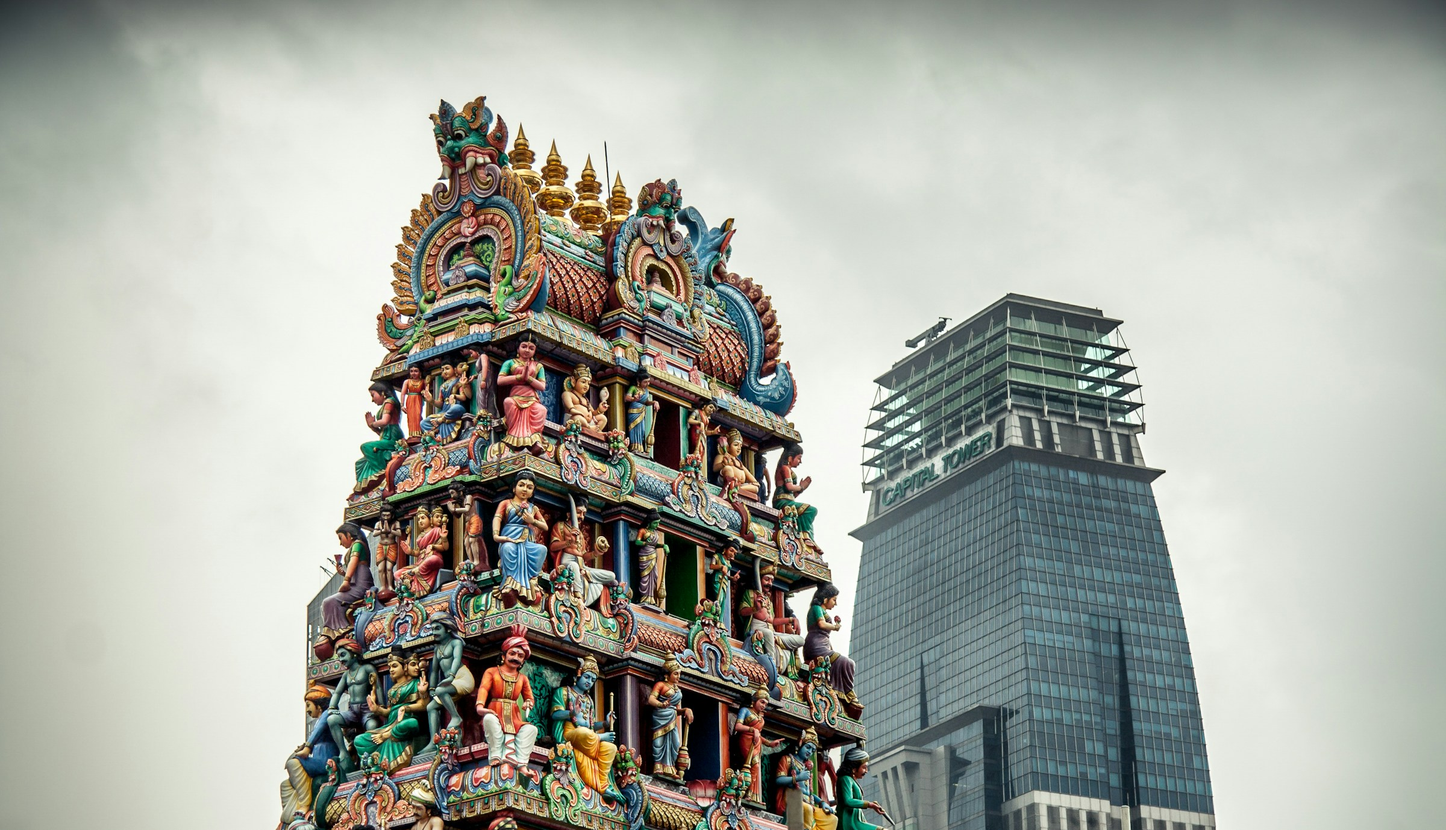
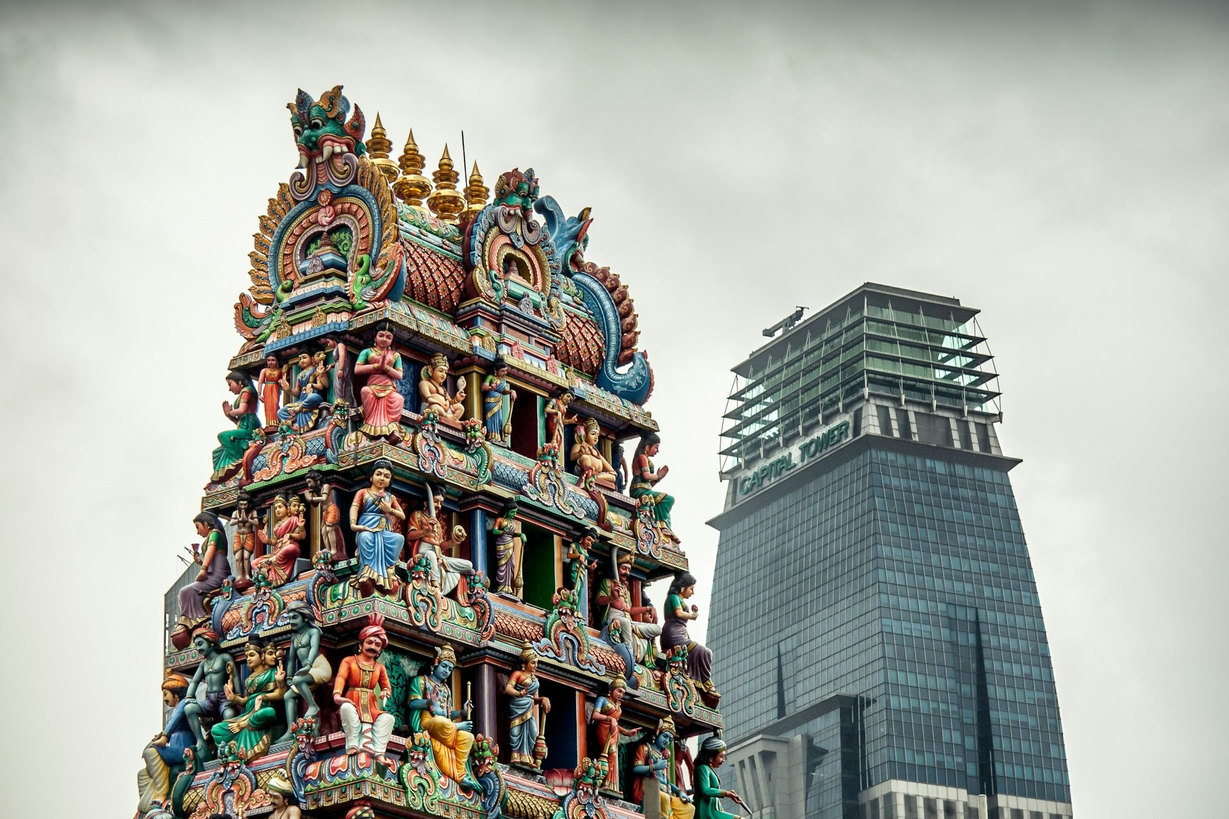
completed

diff --git a/index.html b/index.html
@@ -1,16 +1,309 @@
 <!DOCTYPE html>
 <html>
-<head>
-    <meta charset="UTF-8">
-    <meta name="viewport" content="width=device-width, initial-scale=1.0">
-    <title>HTML Lab</title>
-    <style>
-      /* Part 2 CSS should all be within this tag. */
-    </style>
-</head>
-<body>
+    <head>
+        <meta charset="UTF-8">
+        <meta name="viewport" content="width=device-width, initial-scale=1.0">
+        <title>Image Gallery "Eras of Capitalism"</title>
+        <style>
+            body {
+                background-color: #e8e8e8cd;
+                font-family: system-ui, Helvetica, Arial, sans-serif;
+                color: #333333;
+            }
+            h1 {
+                color: #333333;
+                font-size: 32px;
+                text-align: center;
+            }
 
-<!-- Part 1 Content should all be within the body -->
+            .page-layout {
+                display: grid;
+                grid-template-columns: 180px minmax(0, 1fr);
+                gap: 20px;
+            }
+            nav {
+                position: sticky;
+                top: 20px;
+                align-self: start;
+                border-right: 1px solid #aaaaaa;
+                padding-right: 10px;
+            }
+            nav ul {
+                list-style-type: none;
+                padding-left: 20px;
+            }
+            nav li {
+                margin-bottom: 12px;
+            }
+            nav li a {
+                color: #333333;
+                text-decoration: none;
+                font-size: 15px;
+            }
+            main {
+                min-width: 0;
+            }
+            h2:not(:first-of-type) {
+                border-top: 2px solid #aaaaaa;
+                padding-top: 20px;
+            }
+            .gallery {
+                display: grid;
+                grid-template-columns: repeat(3, minmax(0, 1fr));
+                gap: 20px;
+                margin: 20px auto;
+                max-width: 900px;
+            }
+            .gallery-item {
+                background-color: #fdfdfdcd;
+                padding: 20px;
+                margin: 20px auto;
+                max-width: 400px;
+                text-align: center;
+                border-radius: 10px;
+            }
+            .gallery-item img {
+                width: 100%;
+                height: auto;
+                display: block;
+                margin: 0 auto 15px;
+            }
+            .gallery-item a {
+                font-size: 16px;
+                color: #333333;
+                font-weight: bold;
+            }
+            .caption {
+                width: 80%;
+                font-size: 14px;
+                color: #333333;
+                line-height: 1.2;
+                text-align: center;
+                margin: 8px auto 0;            }
+        </style>
+    </head>
 
-</body>
+    <body>
+
+        <header>
+            <h1>Image Gallery "Eras of Capitalism"</h1>
+        </header>
+
+        <div class="page-layout">
+
+            <nav class="crumbs">
+                <ul>
+                    <li class="crumb"><a href="#early">Early Era</a></li>
+                    <li class="crumb"><a href="#late">Current Era</a></li>
+                    <li class="crumb"><a href="#coming">Coming Era</a></li>
+                </ul>
+            </nav>
+
+            <main>
+
+                <h2 id="early">Early Era</h2>
+
+                <div class="gallery">
+                    <div class="gallery-item">
+
+                        <img src="images/img1_1.jpg"
+                            alt="Black-and-white illustration of a rising sun with rays labeled “Municipal Ownership,” “Government Ownership,” “Public Control,” and “Equal Rights”; a man raises both arms in the foreground.">
+
+                        <a href="https://pdimagearchive.org/images/ac9c2b11-23c1-486a-9d33-6912e97b0b5e/">
+                            The Dawn of a New Era
+                        </a>
+
+                        <p class="caption">
+                            Published in Capital and Labor (1907), this illustration presents public ownership, public control, and equal rights as signs of a new era.
+                        </p>
+
+                    </div>
+
+                    <div class="gallery-item">
+
+                        <img src="images/img1_2.jpg"
+                            alt="Black-and-white political illustration titled Level of Competition, depicting competition as a struggle in society.">
+
+                        <a href="https://pdimagearchive.org/images/181f2397-d352-4b22-a53e-ce55d5fbd373/">
+                            Level of Competition
+                        </a>
+
+                        <p class="caption">
+                            In Capital and Labor (1907), Paul Krafft criticizes the pressures of economic competition. The illustration reflects the period's debate over whether rivalry or cooperation better serves workers.
+                        </p>
+
+                    </div>
+
+                    <div class="gallery-item">
+
+                        <img src="images/img1_3.jpg"
+                            alt="Black-and-white cartoon of a wealthy man directing other people as they count large piles of money.">
+
+                        <a href="https://pdimagearchive.org/images/41aa59b0-a17a-48f1-8f52-9e1e94aa4e85/">
+                            Mountain of Money
+                        </a>
+
+                        <p class="caption">
+                            In this 1907 satire, a wealthy man has others count his enormous piles of money. The scene contrasts concentrated riches with the limited earnings of workers.
+                        </p>
+
+                    </div>
+
+                    <div class="gallery-item">
+
+                        <img src="images/img1_4.jpg"
+                            alt="Black-and-white illustration with a small Before scene of workers bearing a heavy load and a larger After scene showing people beside a building labeled Public Buildings.">
+
+                        <a href="https://pdimagearchive.org/images/53d5f020-ed3e-45b9-b012-1a8969306f6e/">
+                            Before and After
+                        </a>
+
+                        <p class="caption">
+                            This 1907 cartoon contrasts workers carrying heavy burdens with a vision of shared responsibility through cooperation. It reflects the author's argument for a fairer economic system.
+                        </p>
+
+                    </div>
+
+                    <div class="gallery-item">
+
+                        <img src="images/img1_5.jpg"
+                            alt="Black-and-white political cartoon of a large alligator-like monster swallowing a map of the United States.">
+
+                        <a href="https://pdimagearchive.org/images/39004a54-d8b4-481e-832e-9015723ad7c6/">
+                            The Monster of Monopoly
+                        </a>
+
+                        <p class="caption">
+                            Paul Krafft depicts monopoly as a dangerous creature consuming the nation. The 1907 cartoon criticizes the growing power of concentrated businesses.
+                        </p>
+
+                    </div>
+
+                    <div class="gallery-item">
+
+                        <img src="images/img1_6.jpg"
+                            alt="Black-and-white political illustration of an octopus representing graft, with its tentacles spread outward.">
+
+                        <a href="https://pdimagearchive.org/images/c1a57e6d-b7f9-4ef5-bc18-2fe61c2b306c/">
+                            The Octopus of Graft
+                        </a>
+
+                        <p class="caption">
+                            In this 1907 cartoon, the octopus symbolizes graft and the reach of political corruption. Its tentacles suggest how corruption can extend across public life.
+                        </p>
+
+                    </div>
+                </div>
+
+                <h2 id="late">Current Era</h2>
+
+                <div class="gallery">
+                    <div class="gallery-item">
+
+                        <img src="images/img2_1.jpg"
+                            alt="Nighttime cityscape with illuminated buildings and a skyline of tall urban structures.">
+
+                        <a href="https://unsplash.com/photos/cityscape-with-illuminated-buildings-at-night-4ZET5UFzYjs">
+                            Cityscape with illuminated buildings at night
+                        </a>
+
+                        <p class="caption">
+                            An illuminated city skyline represents the scale and energy of modern urban economies. The nighttime scene contrasts with the historical cartoons in the first gallery.
+                        </p>
+
+                    </div>
+
+                    <div class="gallery-item">
+
+                        <img src="images/img2_2.jpg"
+                            alt="Photograph of a tall urban tower with a clock near its top.">
+
+                        <a href="https://unsplash.com/photos/a-tall-tower-with-a-clock-on-the-top-of-it-PsToQ8md5KY">
+                            A Tall Tower with a Clock
+                        </a>
+
+                        <p class="caption">
+                            A clock tower rises above the surrounding cityscape, showing the contrast between traditional landmarks and modern urban development.
+                        </p>
+
+                    </div>
+
+                    <div class="gallery-item">
+
+                        <img src="images/img2_3.jpg"
+                            alt="Close-up photograph of a Zimbabwean banknote marked One Billion Dollars.">
+
+                        <a href="https://unsplash.com/photos/a-one-billion-dollar-bill-with-the-words-one-billion-dollars-printed-on-it-Mk1RW1AfxAw">
+                            A One Billion Dollar Bill
+                        </a>
+
+                        <p class="caption">
+                            A one-billion-dollar banknote from Zimbabwe illustrates how extreme inflation can produce unusually large currency denominations. Its face value is not evidence of equivalent purchasing power.
+                        </p>
+
+                    </div>
+
+                    <div class="gallery-item">
+
+                        <img src="images/img2_4.jpg"
+                            alt="U.S. dollar bills being inserted into a piggy bank.">
+
+                        <a href="https://unsplash.com/photos/us-dollar-bills-being-inserted-into-a-piggy-bank-dvkgCLkN9kY">
+                            U.S. Dollar Bills Being Inserted into a Piggy Bank
+                        </a>
+
+                        <p class="caption">
+                            U.S. dollar bills being deposited into a piggy bank illustrate saving and personal financial planning in a modern economy.
+                        </p>
+
+                    </div>
+
+                    <div class="gallery-item">
+
+                        <img src="images/img2_5.jpg"
+                            alt="Black-and-white photograph of a person carrying shopping bags walking past another person seated on a sidewalk.">
+
+                        <a href="https://unsplash.com/photos/grayscale-photo-of-man-with-shop-bags-walking-past-beggar-siting-on-sidewalk-Skhc2Bm7J4s">
+                            Shopping and Economic Hardship
+                        </a>
+
+                        <p class="caption">
+                            A black-and-white street photograph contrasts shopping and visible economic hardship. The scene invites viewers to consider inequality in a consumer economy.
+                        </p>
+
+                    </div>
+
+                    <div class="gallery-item">
+
+                        <img src="images/img2_6.jpg"
+                            alt="Close-up photograph of red-and-white playing cards.">
+
+                        <a href="https://unsplash.com/photos/red-and-white-playing-cards-JhVLCDT9jXE">
+                            Red and White Playing Cards
+                        </a>
+
+                        <p class="caption">
+                            Red-and-white playing cards offer a visual metaphor for chance, competition, and unequal economic outcomes.
+                        </p>
+
+                    </div>
+                </div>
+
+                <h2 id="coming">Coming Era</h2>
+
+                    <div class="gallery-item">
+
+                        <img src="images/img3.png"
+                            alt="Illustration of a balance scale comparing fruit and meat in a future marketplace.">
+
+                        <strong>Fruit, Meat</strong>
+
+                        <p class="caption">
+                            Value can be exchanged only for real value.
+                        </p>
+
+                    </div>
+            </main>
+        </div>
+    </body>
 </html>

diff --git a/index0.html b/index0.html
@@ -1,0 +1,16 @@
+<!DOCTYPE html>
+<html>
+<head>
+    <meta charset="UTF-8">
+    <meta name="viewport" content="width=device-width, initial-scale=1.0">
+    <title>HTML Lab</title>
+    <style>
+      /* Part 2 CSS should all be within this tag. */
+    </style>
+</head>
+<body>
+
+<!-- Part 1 Content should all be within the body -->
+
+</body>
+</html>
